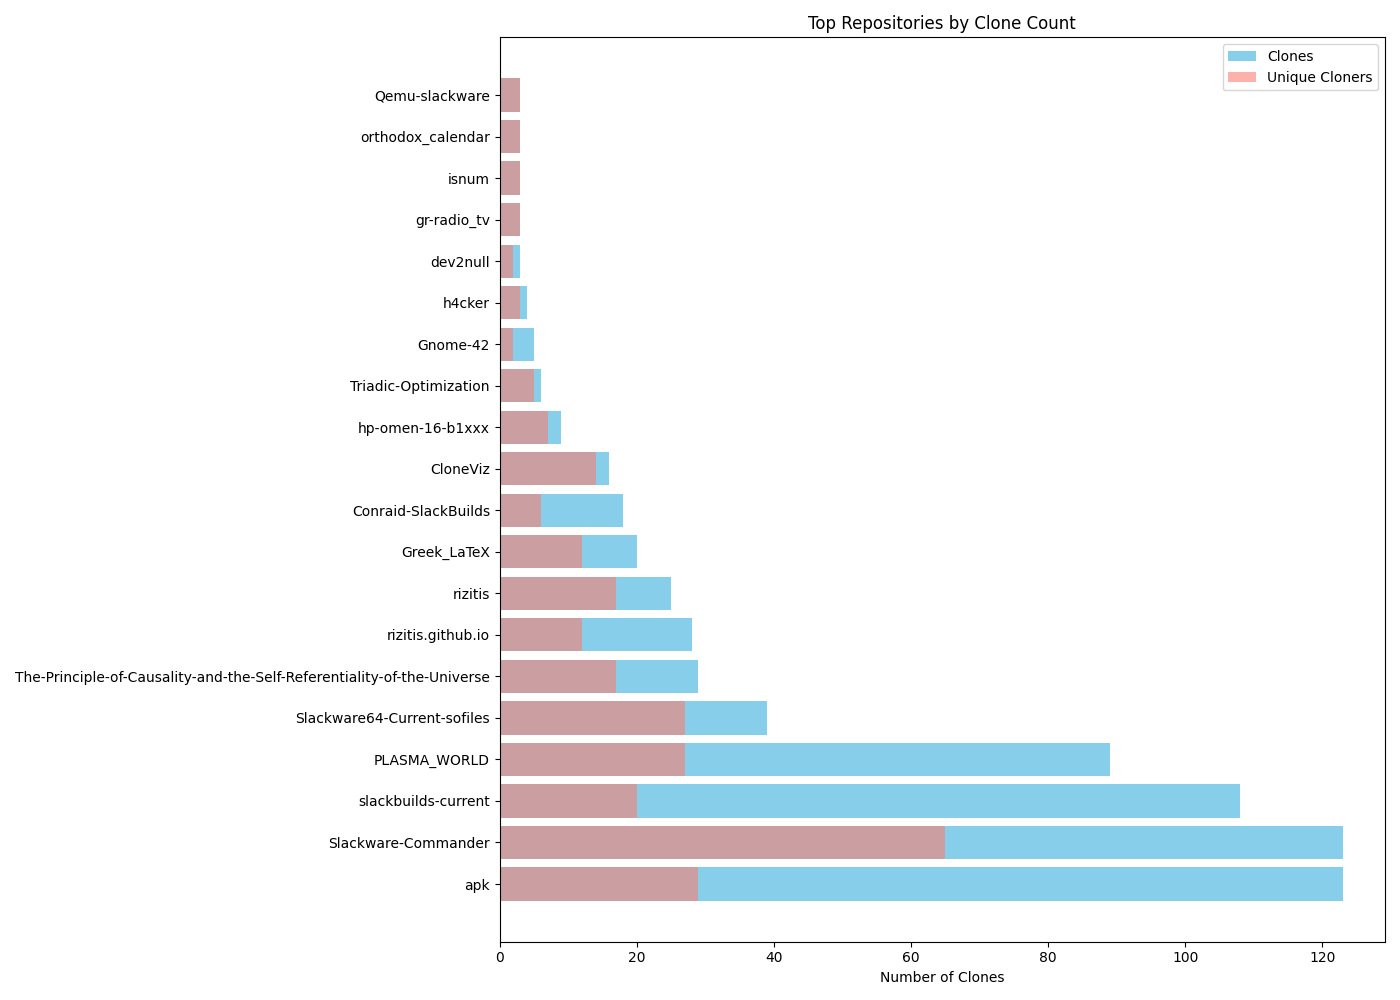
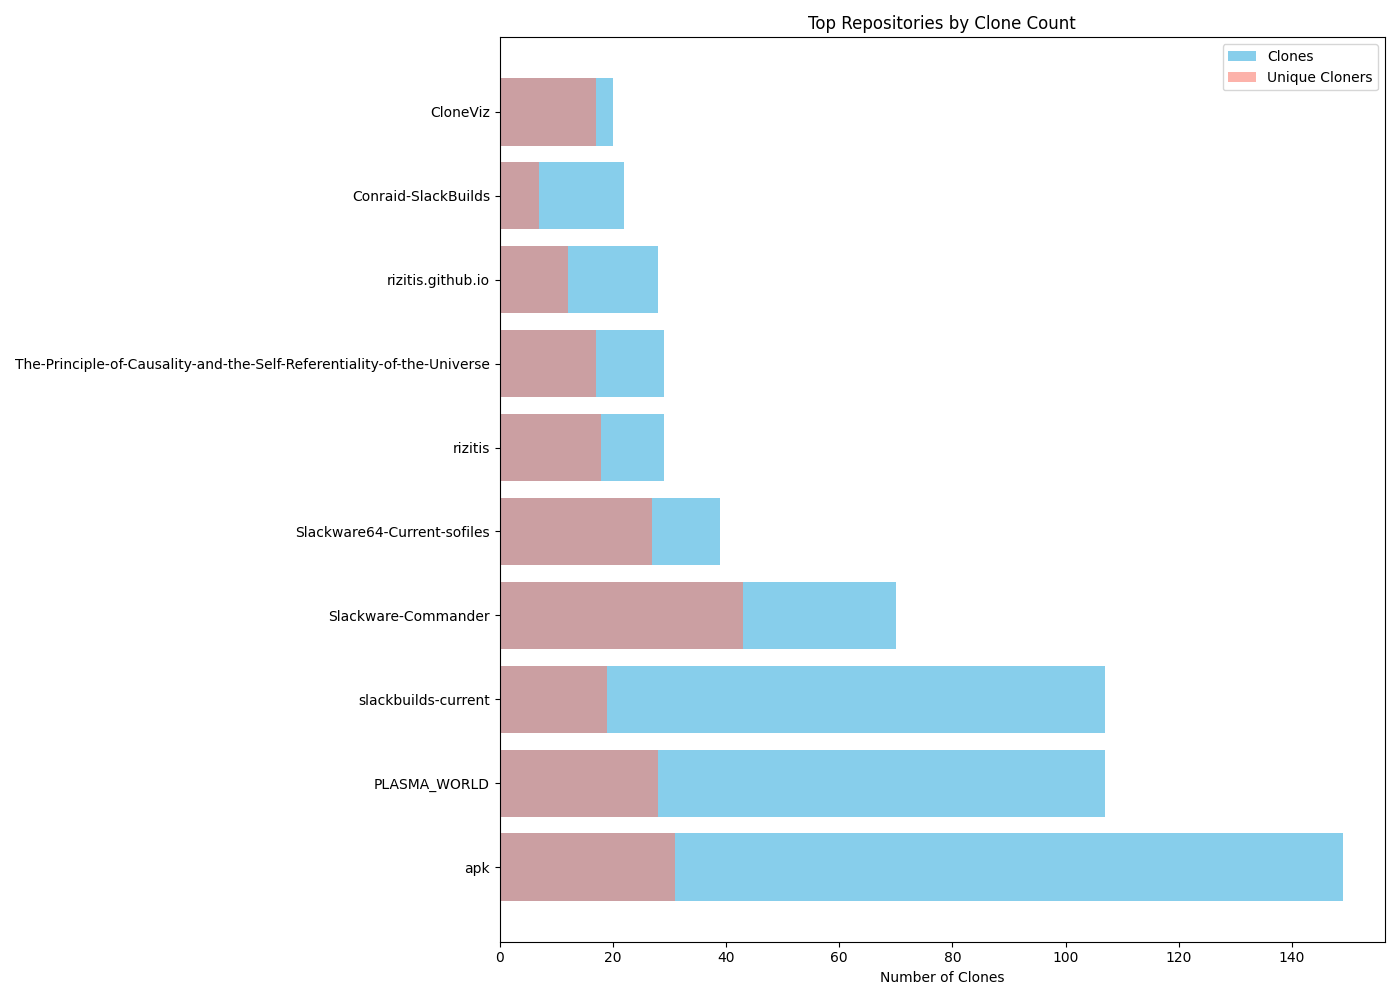
update

diff --git a/visualize_clones.py b/visualize_clones.py
@@ -15,7 +15,7 @@ max_name_length = 40
 repo_names = [name if len(name) <= max_name_length else name[:max_name_length] + "..." for name in repo_names]
 
 # Limit the number of repositories shown (optional)
-top_n = 20  # Adjust this number based on how many repos you want to display
+top_n = 10  # Adjust this number based on how many repos you want to display
 clone_data_sorted = sorted(clone_data, key=lambda x: x['clones'], reverse=True)[:top_n]
 
 repo_names = [data['repo'] for data in clone_data_sorted]
